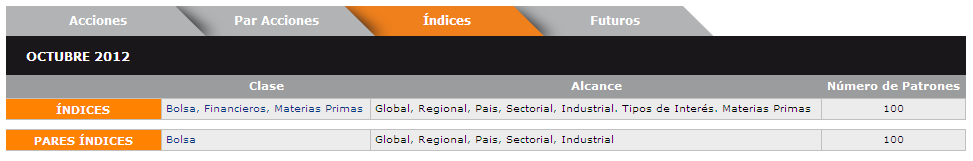
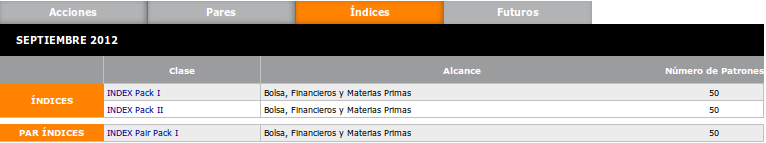
Fixes on Aplicaciones del Servicio -> Pares page

diff --git a/src/app/service_applications/pairs/pairs.tpl.html b/src/app/service_applications/pairs/pairs.tpl.html
@@ -5,29 +5,27 @@
     <p class="orange-title">Destinatarios</p>
     <p>
         Inversores que desean tener Carteras balanceadas <em>market neutral</em>, simultaneando posiciones de Compra &mdash;largas&ndash;
-        y de Venta &mdash;cortas&ndash; mediante Acciones, ETF&#39;s, CFD&#39;s o Futuros, poniendo en pr&aacute;ctica los Patrones o estrategias de
-        de Market Observatory.
+        y de Venta &mdash;cortas&ndash; mediante Acciones, ETF&#39;s, CFD&#39;s o Futuros, utilizando los Patrones o estrategias de
+        "Par Acciones" y "Par Índices" de Market Observatory.
     </p>
 
     <p class="orange-title">Qu&eacute; necesita</p>
     <ol class="clear_both ordered-list-first-level list-left-first-level-no-padding">
         <li>
-            Una compra de alg&uacute;n Paquete, o Pack, de Contenidos incluidos en el grupo PAR ACCIONES &mdash;ver siguiente ilustraci&oacute;n&mdash;.
-            Market Observatory proporciona cada mes los mejores Patrones sobre Pares de compa&ntilde;&iacute;as que cotizan en igual moneda.
+            Una suscripción a algún Pack del grupo PARES de Market Observatory, que cada mes proporciona los 50 mejores Patrones sobre Pares de Compañías que cotizan en misma moneda.
         </li>
         <li>
-            Una Compra de alg&uacute;n Paquete, o Pack, de Contenidos incluidos en el grupo INDICES, subgrupo PAR INDICES. Market Observatory proporciona cada mes los
-            mejores Patrones sobre Pares de &Iacute;ndices.
+            Una suscripción a algún Pack del grupo ÍNDICES, subgrupo PAR ÍNDICES de Market Observatory, que cada mes proporciona los 50 mejores Patrones sobre Pares de Índices de Bolsa.
         </li>
         <li>
-            Un buen br&oacute;ker o intermediario financiero que facilite operar a la baja con los principales instrumentos como Ventas a Corto en Acciones, CFD&#39;s o Futuros sobre &Iacute;ndices.
-            Adem&aacute;s puesto que una estrategia de Par conlleva el doble de operaciones, debe requerir bajas comisiones.
+            Un buen bróker o intermediario financiero que facilite operar con CFD’s, Futuros sobre Índices y Ventas a Corto en 
+            Acciones. Puesto que una estrategia de Par conlleva el doble de operaciones, debe requerir bajas comisiones.
         </li>
     </ol>
 
     <p class="orange-title">La Compra de un Pack</p>
     <p>
-        En el Home elegir dentro del grupo ACCIONES los par&aacute;metros de su inter&eacute;s, mercados, mes de publicaci&oacute;n y duraci&oacute;n de la suscripci&oacute;n a los
+        En el Home de Marquet Observatory elegir dentro del grupo PARES los par&aacute;metros de su inter&eacute;s, mercados, mes de publicaci&oacute;n y duraci&oacute;n de la suscripci&oacute;n a los
         contenidos. Desde tan solo 29 EUR, podr&aacute; descubrir los 50 mejores Patrones sobre Par de Acciones, QU&Eacute; Compa&ntilde;&iacute;as comprar y QU&Eacute; Compa&ntilde;&iacute;as Vender,
         CU&Aacute;NDO iniciar y cerrar las operaciones, porcentaje de efectivo a invertir en el Par y en cada lado <i>&ndash;leg&ndash;</i> del Par, y
         muchas cosas m&aacute;s.
@@ -38,7 +36,7 @@
     </p>
 
     <p>
-        Como se mencion&oacute; arriba, si desea operar con Pares de &Iacute;ndices necesitar&aacute; comprar alg&uacute;n Pack de contenidos del grupo &Iacute;NDICES subgrupo
+        Como se mencion&oacute; arriba, si desea operar con Pares de &Iacute;ndices en vez de Pares de Acciones, necesitar&aacute; comprar alg&uacute;n Pack de contenidos del grupo &Iacute;NDICES subgrupo
         PAR &Iacute;NDICES.
     </p>
 
@@ -79,7 +77,7 @@
         El patr&oacute;n anterior se lleva a la práctica del siguiente modo:
     </p>
     <p>
-        Ejemplo: Dispone de un capital de 10,000 EUR. Observando el siguiente resumen de la estrategia
+        Ejemplo: Se dispone de un capital de 10,000 EUR. Observando el siguiente resumen de la estrategia 
         &ldquo;A&rdquo; / &ldquo;L&rdquo;, tiene varias opciones:
     </p>
 
